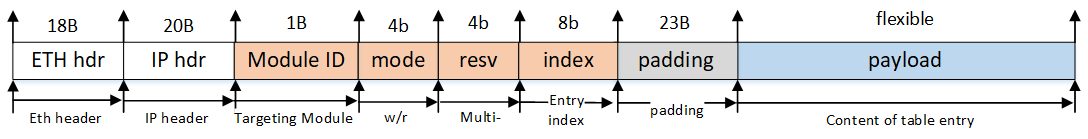
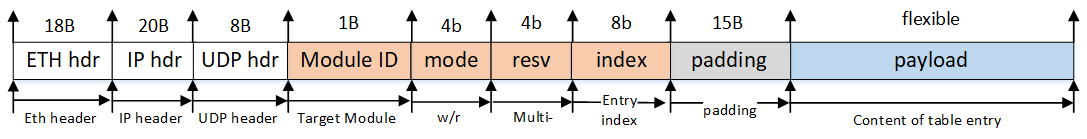
revise the control path design

diff --git a/doc/README.md b/doc/README.md
@@ -149,11 +149,11 @@
 
   ![control_method](control_method.png)
   
-  We designed a stateless method to modify the table enties in the pipeline. Specifically, we use a specialized group of packets (called control packets) to modify the table entries in the RMT pipeline. The packet can be generated from the SW side and contains the info about which table its going to change and how the table will be changed.
+  We designed a stateless method to modify the table enties in the pipeline. Specifically, we use a specialized group of packets (i.e. control packets) to modify the table entries. The packet can be generated from the SW side and contains the info about which table is going to be changed and how the table will be changed.
   
   In the packet header field, there are fields indicating which module (using module ID) the packets is targetting. the content of the table entry is contained in the payload field. when the packet is received by the RMT pipeline, it will recgnized by the RMT modules and will travel all the way through the pipeline.
   
-  Each module will check whether it is the target of the packet: if so, the module will read out the payload and modify the table entry accordingly. Otherwise, it will pass the packet to the next module.If no former module matches the packet's target, before the packet come out of the pipeline, the deparser module will drop it no matter it matches or not.
+  Each module will check whether it is the target of the packet: if so, the module will read out the payload and modify the table entry accordingly. Otherwise, it will pass the packet to the next module. If no former module matches the packet's target, before the packet comes out of the pipeline, the deparser module will drop it no matter it matches or not.
 
   #### Table Types
 
@@ -171,7 +171,7 @@
     
       We use a two-layer indexing for the modules in RMT pipeline: Except the parser and deparser, who occur only once in the pipeline, all other modules (Key Extractors, Lookup Engines, Action Engines) indicate themselve with a **8b Module ID** -> |--5b--|--3b--|. The higher 5b tells which stage it belongs to, the lower 3b tells if it is a Key Extractor, Lookup Engine or Action Engine.
 
-      With this module ID, we will be able to indexing the modules correctly.
+      With this module ID, we will be able to index the modules precisely.
 
   2. Control Packet Header
 
@@ -191,7 +191,7 @@
 
       f. `payload`: the content of the table entry, its flexible in length.
 
-      **We use `0xf1` as the protocol type in the IP header for RMT control packets.**
+      **We use `0xf1f2` as the destination port in the UDP header for RMT control packets.**
 
 
   3. Control Packet Payload
@@ -200,9 +200,9 @@
 
   #### Implementation Details
 
-  1. We made each table dual-port RAM or CAM, thus making sure that the control packet will have no influence to the data path in all the modules. The entries will be modified using the write port.
+  1. We made each table dual-port RAM or CAM, thus making sure that the control packet will have no influence on the data path in all the modules. The entries will be modified using the write port.
 
-  2. The 2nd layer index of the Module ID is: **0x1** for Key Extractor, **0x2** for Lookup Engine, **0x3** for Action Engine.
+  2. The 2nd layer index (lowest 3b) of the Module ID is: **0x1** for Key Extractor, **0x2** for Lookup Engine, **0x3** for Action Engine.
 
   3. In order to have better isolation between control and data path, we will **add a module in front of the RMT pipeline to filter out control packets**, and feed the control packets to the pipeline using a different AXIS channel.
 
